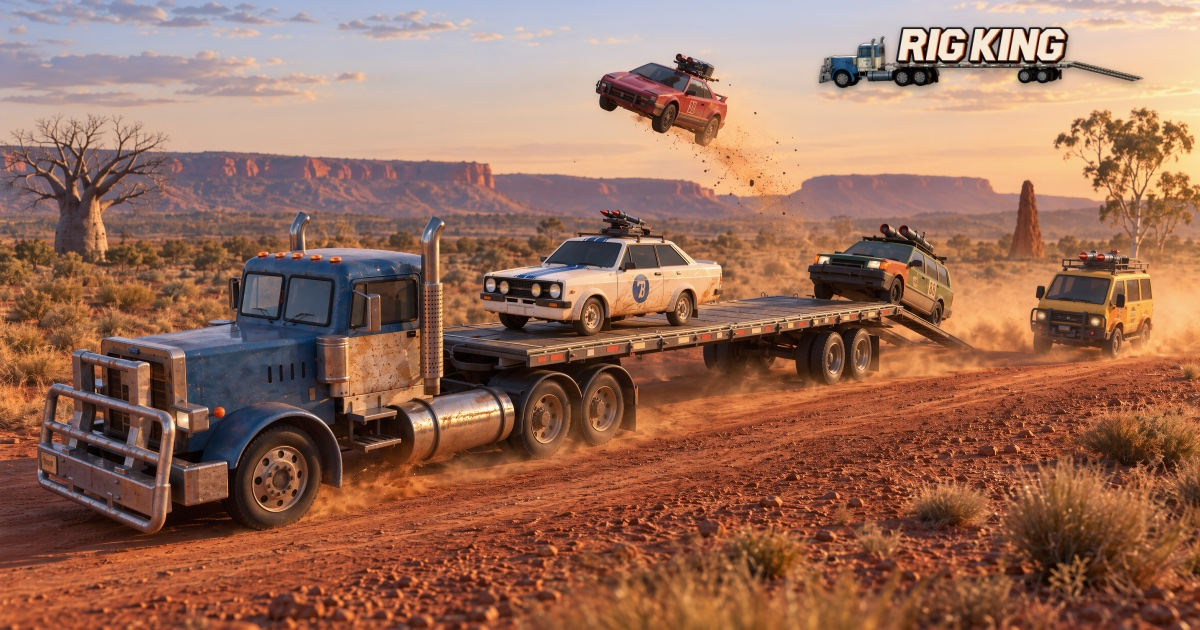
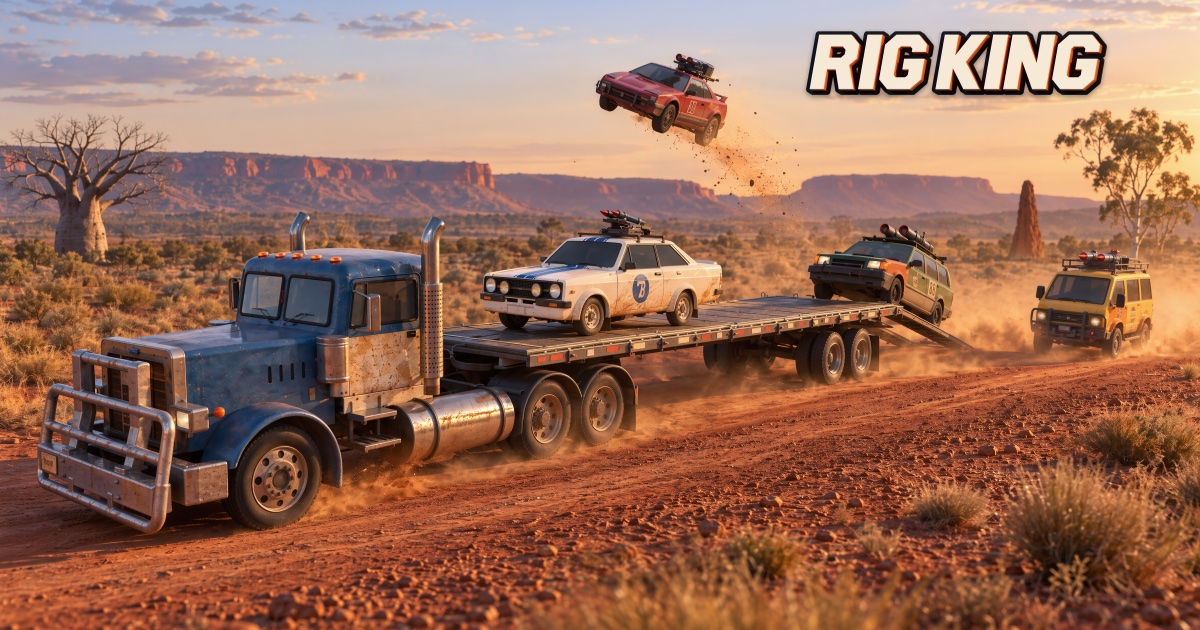
Sync from rig-king/site

Changed region(s): [[0.6475, 0.0302, 0.9558, 0.181]]

diff --git a/press/index.html b/press/index.html
@@ -41,8 +41,11 @@
       <p>A truck hauls a thin flatbed trailer round the track. Everyone else is trying to drive up its two narrow ramps and stay aboard, and the car with the most time on the deck wins. Roof rockets, an oil spill and a spare tyre fired from the boot keep the deck contested. Tracks run from a country dirt speedway to a sea-cliff bridge, a crocodile river with a ferry crossing, and a road train in the outback. On the big screen, phones become steering wheels.</p>
 
       <h2>Logo</h2>
-      <p><a href="/assets/rig-king-logo.png" download>Download the logo (PNG, 4000 × 813, transparent)</a>. Please keep "RIG KING" as one unit and the truck attached.</p>
-      <img src="/assets/logo-800.png" srcset="/assets/logo-800.png 800w, /assets/rig-king-logo.png 4000w" sizes="(max-width: 620px) 90vw, 533px" alt="Rig King logo" width="533" height="108" class="logo-plate">
+      <p>The logo comes in two versions. If the picture already shows the truck, as the key art, screenshots and video do, use the type-only logo. Otherwise, on plain backgrounds and where there is room, the logo with the truck can be used. Please keep "RIG KING" as one unit.</p>
+      <p><strong>Type only:</strong> <a href="/assets/rig-king-logo-type.png" download>PNG, 4000 × 911, transparent</a> or <a href="/assets/rig-king-logo-type.svg" download>SVG (vector)</a>.</p>
+      <img src="/assets/logo-type-800.png" srcset="/assets/logo-type-800.png 800w, /assets/rig-king-logo-type.png 4000w" sizes="(max-width: 620px) 90vw, 533px" alt="Rig King logo, type only" width="533" height="121" class="logo-plate">
+      <p><strong>With the truck:</strong> <a href="/assets/rig-king-logo.png" download>PNG, 4000 × 813, transparent</a>.</p>
+      <img src="/assets/logo-800.png" srcset="/assets/logo-800.png 800w, /assets/rig-king-logo.png 4000w" sizes="(max-width: 620px) 90vw, 533px" alt="Rig King logo with the truck" width="533" height="108" class="logo-plate">
 
       <h2>Screenshots</h2>
       <div class="shots">
